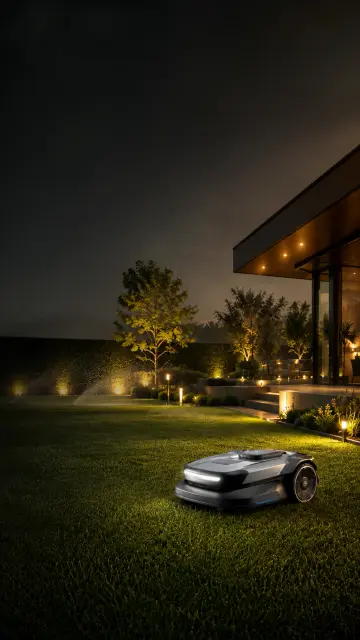
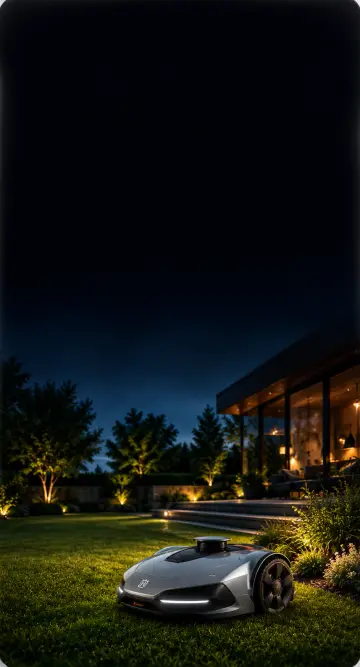
mobile art: composed portrait files for lawn and floor care
Both replaced with versions built for the phone layout — empty upper half,
subject in the lower half where the crop keeps it. Each inset 42px from the
supplied file to remove the drawn silver frame, verified by re-scanning the
new edges rather than by eye. Four of six now have a purpose-composed
portrait; security and companion still carry the earlier ones.

diff --git a/apps/web/src/content/media/assets.ts b/apps/web/src/content/media/assets.ts
@@ -234,11 +234,11 @@ export const ORIGINAL_ASSETS: MediaAssetRecord[] = [
       [
         "feature-lawn-category-mobile",
         "/media/lawn-category/feature-mobile.webp",
-        941,
-        1672,
-        "sha256:ad50108c15f6f3a9deda745009ba26541eb9103262ac367e334473bc85e911af",
+        857,
+        1588,
+        "sha256:4060220ccf0869be9ee8f57db1b0ed6fd948635e1f58b0c6c71913538977e8db",
         "Lawn and garden robots",
-        "The portrait companion to the desktop file — recomposed, not cropped, so the mower, the lawn and the lit garden all survive on a phone.",
+        "Replaced 3 August 2026 with a version composed for the phone layout: empty upper half, the mower and the lit garden in the lower half so they survive the crop. Inset 42px on every edge from the supplied file, which carried a drawn silver frame a few pixels in from the border. Nothing else is altered.",
       ],
       [
         "feature-floor-category-desktop",
@@ -252,11 +252,11 @@ export const ORIGINAL_ASSETS: MediaAssetRecord[] = [
       [
         "feature-floor-category-mobile",
         "/media/floor-category/feature-mobile.webp",
-        941,
-        1672,
-        "sha256:a19437d9df3dbb6eb318cbcd2eaea3d60f2d451a6c0b8886146e6af2986656d3",
+        857,
+        1588,
+        "sha256:f60926001531dcb8967099fb8596a21d26ad57acdfe6a54fa6ef4fb5594f0da4",
         "Robotic floor cleaners",
-        "The portrait companion to the desktop file — recomposed, not cropped, so the machine, the marble and the lit alcove all survive on a phone.",
+        "Replaced 3 August 2026 with a version composed for the phone layout: empty upper half, the machine and the lit room in the lower half so they survive the crop. Inset 42px on every edge from the supplied file, which carried a drawn silver frame a few pixels in from the border. Nothing else is altered.",
       ],
       [
         "feature-security-category-desktop",
